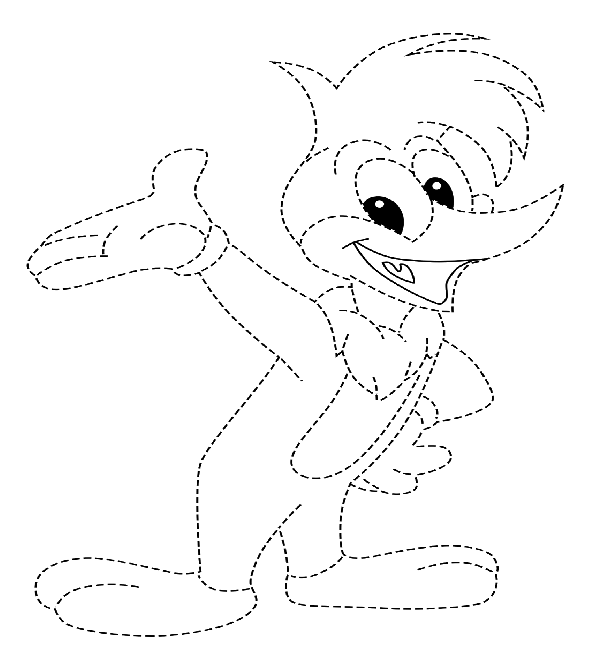
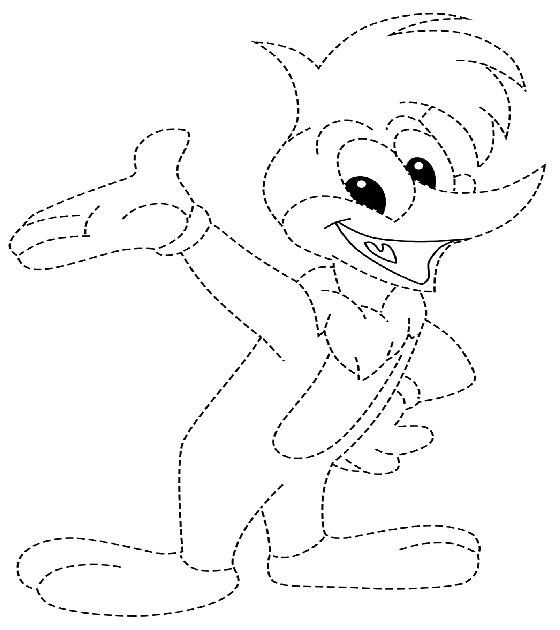
commit full project pca

diff --git a/projetopca/jogo4/matematica.html b/projetopca/jogo4/matematica.html
@@ -134,6 +134,7 @@
                     document.getElementById("n2").innerHTML = x2;
                 }
                 Resources 
+
 				/* multi */
 				function verificar2 () {
 					var num1 = document.getElementById("num1").innerHTML;
@@ -157,6 +158,54 @@
 					document.getElementById("num2").innerHTML = x2;
 				}
 				Resources 
+
+				/* soma */
+				function verificar3() {
+					var nu1 = Number.parseInt(document.getElementById("nu1").innerHTML);
+					var nu2 = Number.parseInt(document.getElementById("nu2").innerHTML);
+					var resu = document.getElementById("nu3").value;
+					
+					if (nu1 + nu2 == resu) {
+					alert("Parabéns, você ACERTOU!");
+					} else {
+					alert("Você errou, tente de novo!")
+					}
+					resetar3();
+				}
+
+
+				function resetar3() {
+					var x1 = Math.floor(Math.random()*10);
+					var x2 = Math.floor(Math.random()*10);
+					document.getElementById("nu3").value = "";
+					document.getElementById("nu1").innerHTML = x1;
+					document.getElementById("nu2").innerHTML = x2;
+				}
+				Resources 
+
+				/* divisão */
+				function verificar4 () {
+					var numer1 = document.getElementById("numer1").innerHTML;
+					var numer2 = document.getElementById("numer2").innerHTML;
+					var resul = document.getElementById("numer3").value;
+					
+					if (numer1 / numer2 == resul) {
+					alert("Parabéns, você ACERTOU!");
+					} else {
+					alert("Você errou, tente de novo!")
+					}
+					resetar4();
+				}
+
+
+				function resetar4() {
+					var x1 = Math.floor(Math.random()*10);
+					var x2 = Math.floor(Math.random()*10);
+					document.getElementById("numer3").value = "";
+					document.getElementById("numer1").innerHTML = x1;
+					document.getElementById("numer2").innerHTML = x2;
+				}
+				Resources 
 				
                 /* matematica */
         
@@ -168,9 +217,16 @@
 			<!-- colapse -->
 
 			<p>
-				<a class="btn btn-primary" data-toggle="collapse" href="#multiCollapseExample1" role="button" aria-expanded="false" aria-controls="multiCollapseExample1">Subtração</a>
-				<button class="btn btn-primary" type="button" data-toggle="collapse" data-target="#multiCollapseExample2" aria-expanded="false" aria-controls="multiCollapseExample2">Multiplicação</button>
-				<button class="btn btn-primary" type="button" data-toggle="collapse" data-target=".multi-collapse" aria-expanded="false" aria-controls="multiCollapseExample1 multiCollapseExample2">Subtração e Multiplicação</button>
+				<a class="btn btn-primary" data-toggle="collapse" href="#multiCollapseExample1" role="button" 
+				aria-expanded="false" aria-controls="multiCollapseExample1">Subtração</a>
+				<button class="btn btn-primary" type="button" data-toggle="collapse" data-target="#multiCollapseExample2" 
+				aria-expanded="false" aria-controls="multiCollapseExample2">Multiplicação</button>
+				<button class="btn btn-primary" type="button" data-toggle="collapse" data-target="#multiCollapseExample3" 
+				aria-expanded="false" aria-controls="multiCollapseExample2">Soma</button>
+				<button class="btn btn-primary" type="button" data-toggle="collapse" data-target="#multiCollapseExample4" 
+				aria-expanded="false" aria-controls="multiCollapseExample2">Divisão</button>
+				<button class="btn btn-primary" type="button" data-toggle="collapse" data-target=".multi-collapse" 
+				aria-expanded="false" aria-controls="multiCollapseExample1 multiCollapseExample3">Tudo</button>
 			</p>
 			<div class="row">
 			<div class="col">
@@ -200,6 +256,38 @@
 						<div id="igual">=</div>
 						<input id="num3"></input>
 						<button class="botao" onclick="verificar2()">Verificar</button>
+					</div>
+					<!-- calculo de matemnatica -->
+				</div>
+				</div>
+			</div>
+			<div class="col">
+				<div class="collapse multi-collapse" id="multiCollapseExample3">
+				<div class="card card-body">
+					<!-- calculo de matemnatica -->
+					<div class="mat">
+						<div id="nu1"></div>
+						<div id="x">+</div>
+						<div id="nu2"></div>
+						<div id="igual">=</div>
+						<input id="nu3"></input>
+						<button class="botao" onclick="verificar3()">Verificar</button>
+					</div>
+					<!-- calculo de matemnatica -->
+				</div>
+				</div>
+			</div>
+			<div class="col">
+				<div class="collapse multi-collapse" id="multiCollapseExample4">
+				<div class="card card-body">
+					<!-- calculo de matemnatica -->
+					<div class="mat">
+						<div id="numer1"></div>
+						<div id="x">/</div>
+						<div id="numer2"></div>
+						<div id="igual">=</div>
+						<input id="numer3"></input>
+						<button class="botao" onclick="verificar4()">Verificar</button>
 					</div>
 					<!-- calculo de matemnatica -->
 				</div>

diff --git a/projetopca/jogo1/desenho.html b/projetopca/jogo1/desenho.html
@@ -110,9 +110,36 @@
 	<div id="main-content">
 
 	<div class="container">	
+			<!--<form action='image/upload' method='post' encType="multipart/form-data">-->
+        
+				<!-- novo elemento! -->
+				<!--<input class="file-button" type="button" value="Choose your beautiful image">-->
+		
+				<!-- invisível -->
+		
+				<!--<input class="file-chooser" type="file" accept="image/*" hidden>
+				<img class="preview-img">-->
+				
+			</form>
+			<script>
+				//const $ = document.querySelector.bind(document);
+		
+				//const previewImg = $('.preview-img');
+				//const fileChooser = $('.file-chooser');
+				//const fileButton = $('.file-button');
+		
+				//fileButton.onclick = () => fileChooser.click();
+		
+				//fileChooser.onchange = e => {
+					//const fileToUpload = e.target.files.item(0);
+					//const reader = new FileReader();
+					//reader.onload = e => previewImg.src = e.target.result;
+					//reader.readAsDataURL(fileToUpload);
+				//};
+			</script>
 
 		<center>
-			<canvas id="canvas" class="canvas" width="600" height="650"
+			<canvas id="canvas" class="canvas" width="560" height="630"
 			style="border: 5px solid black;">
 			</canvas>
 		</center>
@@ -123,7 +150,8 @@
                 <input class="btn btn-danger" type="button" value="Imprimir Página" onClick="window.print()"/>
             </form>
 		</div>
-		
+
+
 		<h2>Tutorial</h2>
         <!-- Trigger the modal with a button -->
         <button type="button" class="btn btn-info btn-lg" data-toggle="modal" data-target="#myModal">Tutorial</button>

diff --git a/projetopca/jogo4/mat.css b/projetopca/jogo4/mat.css
@@ -188,6 +188,26 @@ input {
     line-height: 100px;
   }
 
+  #nu1 {
+    width: 100px;
+    height: 100px;
+    border: 1px solid #000;
+    float: left;
+    font-size: 55px;
+    text-align: center;
+    line-height: 100px;
+  }
+
+  #numer1 {
+    width: 100px;
+    height: 100px;
+    border: 1px solid #000;
+    float: left;
+    font-size: 55px;
+    text-align: center;
+    line-height: 100px;
+  }
+
   #x {
     float: left;
     padding: 20px 10px;  
@@ -203,6 +223,26 @@ input {
     line-height: 100px;
   }
   #num2 {
+    width: 100px;
+    height: 100px;
+    border: 1px solid #000;
+    float: left;
+    font-size: 55px;
+    text-align: center;
+    line-height: 100px;   
+  }
+
+  #nu2 {
+    width: 100px;
+    height: 100px;
+    border: 1px solid #000;
+    float: left;
+    font-size: 55px;
+    text-align: center;
+    line-height: 100px;   
+  }
+
+  #numer2 {
     width: 100px;
     height: 100px;
     border: 1px solid #000;
@@ -234,6 +274,25 @@ input {
     text-align: center;
     font-size: 55px;
   }
+
+  #nu3 {
+    width: 150px;
+    height: 100px;
+    border: 1px solid #000;
+    float: left;
+    text-align: center;
+    font-size: 55px;
+  }
+
+  #numer3 {
+    width: 150px;
+    height: 100px;
+    border: 1px solid #000;
+    float: left;
+    text-align: center;
+    font-size: 55px;
+  }
+
   .botao {
     clear: both; 
     float:left; 

diff --git a/projetopca/css/style.css b/projetopca/css/style.css
@@ -150,7 +150,7 @@ div#home {
 /* - ---------------------- -- ---*/
 
 /* jogo1 */
-  canvas{
+  .canvas{
     background-image: url("../img/contorno1.png");
   }
   

diff --git a/projetopca/jogo1/desenho.js b/projetopca/jogo1/desenho.js
@@ -1,3 +1,7 @@
+/* escolher imagem */ 
+
+
+
 /* canvas desenho */
 var Draw = {
     obj : document.getElementById('canvas'),
